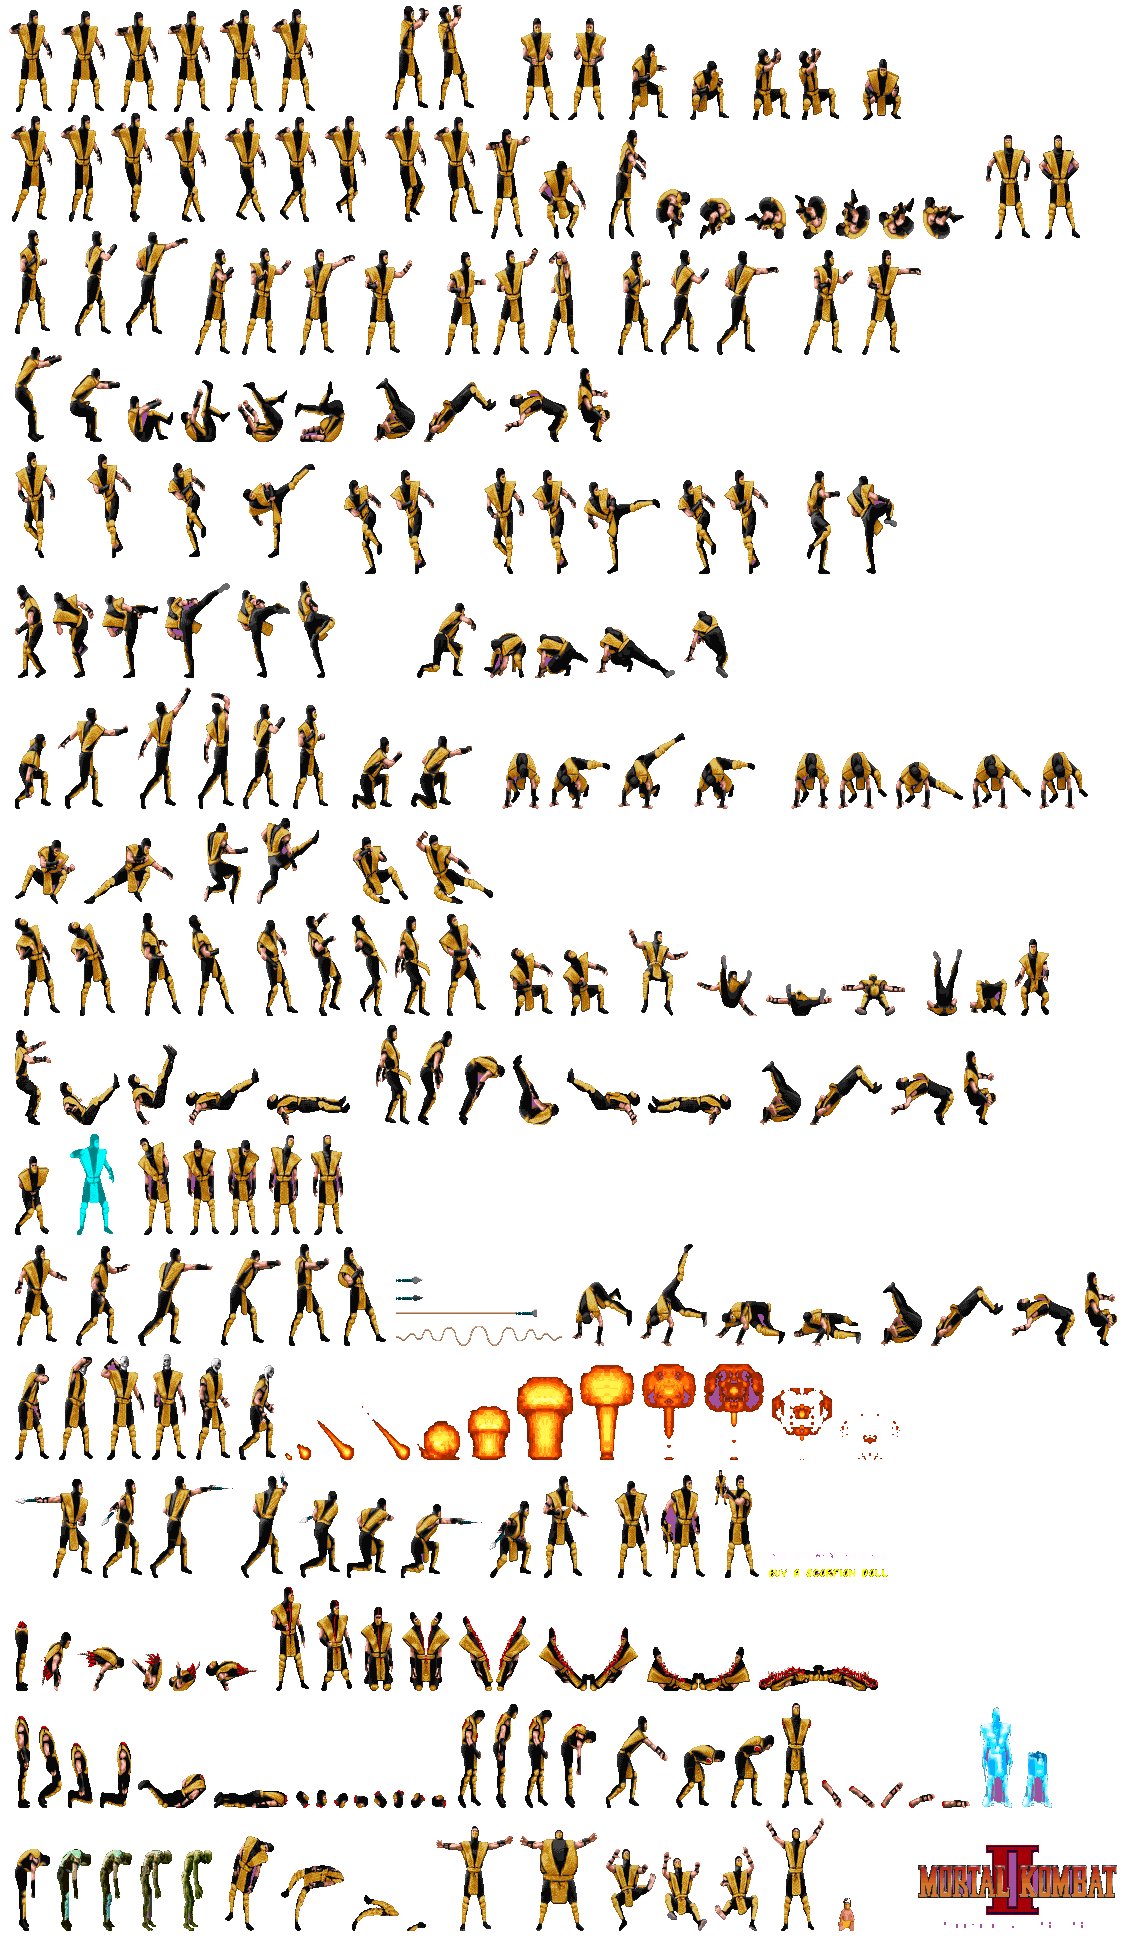
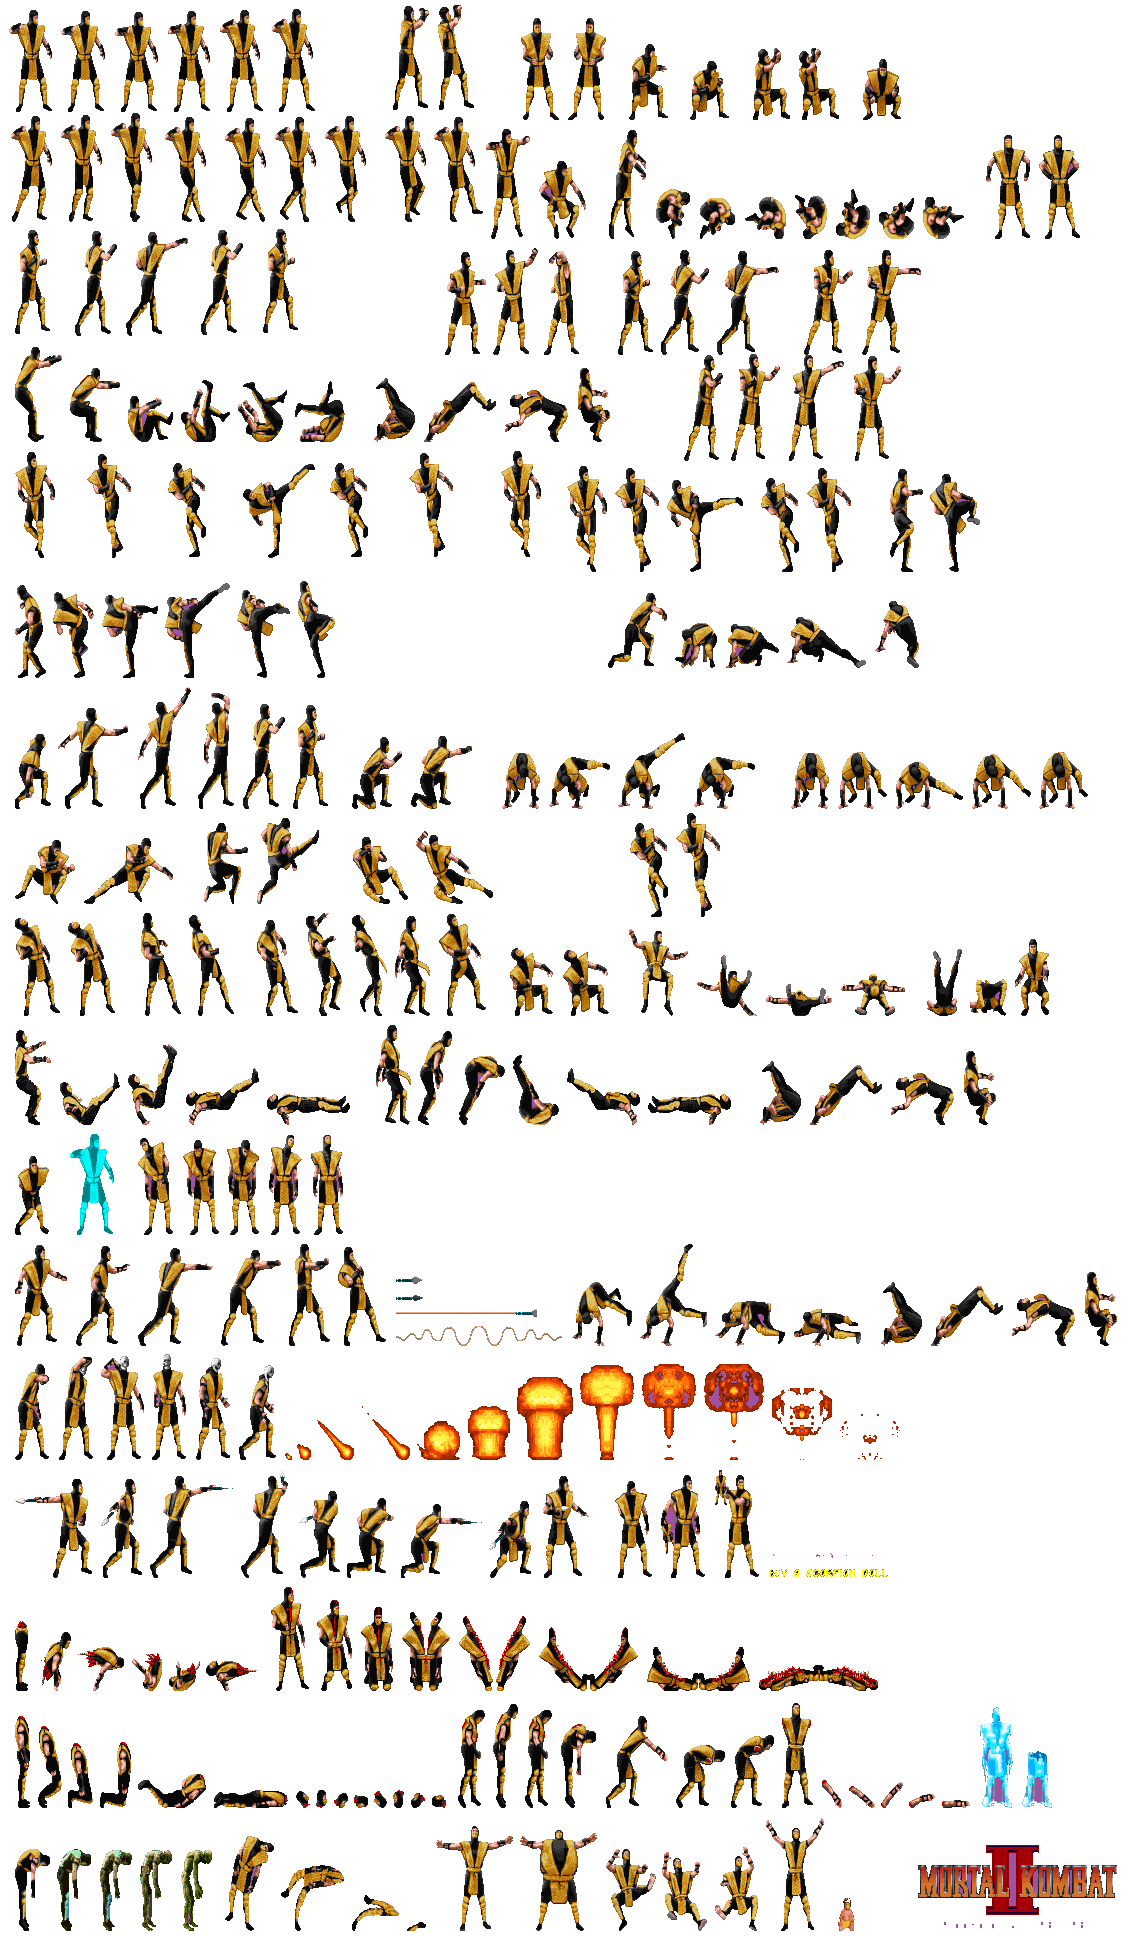
add animation and sprite function

diff --git a/core/scorpion.c b/core/scorpion.c
@@ -19,12 +19,17 @@ void hero_init(SDL_Renderer* renderer, hero_t* hero, SDL_Rect sprite_rect)
 
     animation_t idle_anim;
     animation_init(&idle_anim, 6, 100, texture_rect);
+
     animation_t walk_anim;
     animation_init(&walk_anim, 9, 100, create_rect(0, 112, 54, 112));
+
     animation_t punch_anim;
-    animation_init(&punch_anim, 3, 120, create_rect(0, 224, 63, 112));
+    animation_init(&punch_anim, 5, 120, create_rect(0, 224, 63, 112));
+    animation_set_loop(&punch_anim, 0);
+    
     animation_t kick_anim;
-    animation_init(&kick_anim, 4, 200, create_rect(0, 448, 80, 112));
+    animation_init(&kick_anim, 7, 150, create_rect(0, 448, 80, 112));
+    animation_set_loop(&kick_anim, 0);
 
     hero->animations[IDLE] = idle_anim;
     hero->animations[WALK] = walk_anim;
@@ -32,6 +37,7 @@ void hero_init(SDL_Renderer* renderer, hero_t* hero, SDL_Rect sprite_rect)
     hero->animations[KICK] = kick_anim;
 
     hero->curr_anim = idle_anim;
+    animation_play(&hero->curr_anim, &hero->sprite);
 }
 
 void hero_input(SDL_Renderer* renderer, hero_t* hero, SDL_Event* event) 
@@ -53,20 +59,18 @@ void hero_input(SDL_Renderer* renderer, hero_t* hero, SDL_Event* event)
             hero->curr_anim = hero->animations[WALK];
             animation_play(&hero->curr_anim, &hero->sprite);                                                                              
         }
-        if(event->key.keysym.sym == SDLK_p) 
-        {
-            hero->curr_anim = hero->animations[PUNCH];
-            animation_play(&hero->curr_anim, &hero->sprite);
-        }
-        else if(event->key.keysym.sym == SDLK_k)
-        {
-            hero->curr_anim = hero->animations[KICK];
-            animation_play(&hero->curr_anim, &hero->sprite);                                                                             
-        }
         else if(event->key.keysym.sym == SDLK_i)
         {
             hero->curr_anim = hero->animations[IDLE];
             animation_play(&hero->curr_anim, &hero->sprite);                                                                              
+        }
+        else if(event->key.keysym.sym == SDLK_LEFT)
+        {
+            sprite_flip(&hero->sprite, SDL_FLIP_HORIZONTAL);
+        }
+        else if(event->key.keysym.sym == SDLK_RIGHT) 
+        {
+            sprite_flip(&hero->sprite, SDL_FLIP_NONE);
         }
     }
 }

diff --git a/core/sprite.c b/core/sprite.c
@@ -12,6 +12,7 @@ void sprite_init(sprite_t* sprite, SDL_Rect sprite_rect)
     sprite->x = sprite_rect.x;
     sprite->y = sprite_rect.y;
     sprite->sprite_rect = sprite_rect;    
+    sprite->flip = SDL_FLIP_NONE;
 }
 
 int sprite_set_texture(SDL_Renderer* renderer, sprite_t* sprite, const char* file_name, SDL_Rect* texture_rect) 
@@ -19,7 +20,6 @@ int sprite_set_texture(SDL_Renderer* renderer, sprite_t* sprite, const char* fil
     SDL_Texture* texture = load_texture(renderer, file_name);
     sprite->texture = texture;
     
-    //modify
     if(texture_rect) 
     {
         SDL_Log("Texture rect defined");
@@ -40,7 +40,16 @@ int sprite_set_texture(SDL_Renderer* renderer, sprite_t* sprite, const char* fil
 void sprite_draw(SDL_Renderer* renderer, sprite_t* sprite) 
 {
     sprite->sprite_rect.x = sprite->x;
-    sprite->sprite_rect.y = sprite->y;
-    //SDL_Log("%d", sprite->x);                                                                            
-    SDL_RenderCopy(renderer, sprite->texture, &sprite->texture_rect, &sprite->sprite_rect);
+    sprite->sprite_rect.y = sprite->y;                                                                      
+    SDL_RenderCopyEx(renderer, sprite->texture, &sprite->texture_rect, &sprite->sprite_rect, 0, NULL, sprite->flip);
+}
+
+/*
+    @param sprite sprite to flip
+    @param flip_mode use (SDL_FLIP_NONE, SDL_FLIP_HORIZONTAL, SDL_FLIP_VERTICAL);
+*/
+void sprite_flip(sprite_t* sprite, int flip_mode) 
+{
+    if(flip_mode >= 0 && flip_mode < 3)
+        sprite->flip = flip_mode; 
 }

diff --git a/core/animation.c b/core/animation.c
@@ -5,18 +5,43 @@ void animation_init(animation_t* animation, int frames, int delayPerFrame, SDL_R
     animation->tot_frames = frames;
     animation->delay_between_frames = delayPerFrame;
     animation->curr_frame = 0;
+    animation->loop=1;
+    animation->is_playing=0;
     animation->texture_rect = texture_rect;
 }
 
 void animation_tick(sprite_t* sprite, animation_t* animation) 
 {  
-    int frame = (SDL_GetTicks() / animation->delay_between_frames) % animation->tot_frames;
-    animation->curr_frame = frame;
-    sprite->texture_rect.x = frame * sprite->texture_rect.w;
+    uint32_t currentTime = SDL_GetTicks();
+    if (currentTime > animation->timer + animation->delay_between_frames) 
+    {
+        animation->curr_frame++;
+        if(animation->curr_frame >= animation->tot_frames) 
+        {
+            if(animation->loop) 
+            {
+                animation->curr_frame = 0;
+            }
+            else
+            {
+                animation->is_playing = 0;
+                return;
+            }          
+        }
+        animation->timer = currentTime;
+        sprite->texture_rect.x = animation->curr_frame * sprite->texture_rect.w;
+    }
 }
 
 void animation_play(animation_t* animation, sprite_t* sprite) 
 {
-    animation->curr_frame = 1;
+    animation->is_playing=1;
+    animation->timer = SDL_GetTicks();
+    animation->curr_frame = 0;
     sprite->texture_rect = animation->texture_rect;
+}
+
+void animation_set_loop(animation_t* animation, int bool)
+{
+    animation->loop = bool;
 }

diff --git a/core/header/animation.h b/core/header/animation.h
@@ -5,9 +5,13 @@ typedef struct animation
     int tot_frames;
     int curr_frame;
     int delay_between_frames;
+    int loop;
+    int is_playing;
+    int timer;
     SDL_Rect texture_rect;
 } animation_t;
 
 void animation_init(animation_t* animation, int frames, int delayPerFrame, SDL_Rect texture_rect);
 void animation_tick(sprite_t* sprite, animation_t* animation);
 void animation_play(animation_t* animation, sprite_t* sprite);
+void animation_set_loop(animation_t* animation, int bool);

diff --git a/core/header/sprite.h b/core/header/sprite.h
@@ -10,10 +10,12 @@ typedef struct sprite
     SDL_Texture* texture;
     SDL_Rect sprite_rect;
     SDL_Rect texture_rect;
+    SDL_RendererFlip flip;
 } sprite_t;
 
 void sprite_init(sprite_t* sprite, SDL_Rect sprite_rect);
 int sprite_set_texture(SDL_Renderer* renderer, sprite_t* sprite, const char* file_name, SDL_Rect* texture_rect);
 void sprite_draw(SDL_Renderer* renderer, sprite_t* sprite);
+void sprite_flip(sprite_t* sprite, int flip_mode);
 
 #endif
